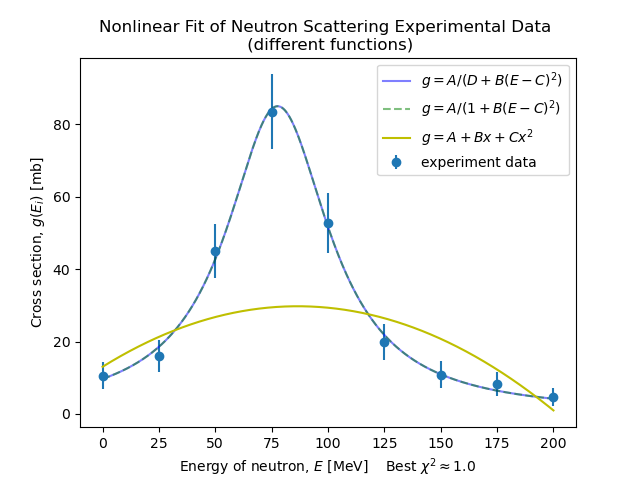
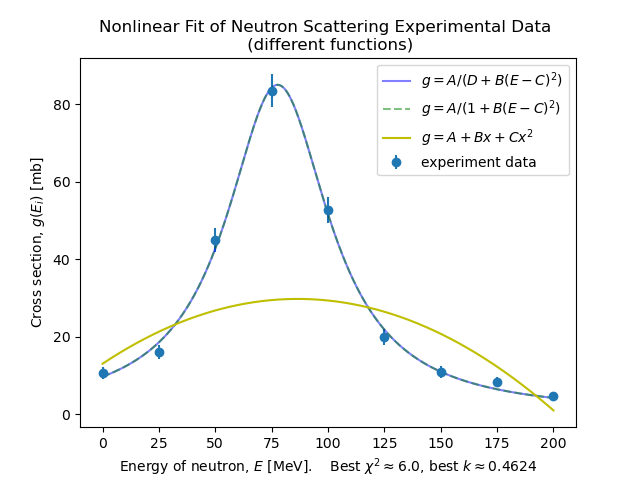
Assignment 3 optimum k used for 345 plot

diff --git a/03/03_03-04-05.py b/03/03_03-04-05.py
@@ -33,7 +33,7 @@ inputfile.close()
 # print(r)
 
 m = 0
-k = 1.13  # manually adjusted
+k = 0.4624  # manually adjusted
 for line in r:
     print(line)
     s = line.split() # split line and split into list of items(assume items separated by spaces)
@@ -95,7 +95,7 @@ plot(xvalues,yvalues_poly,"y-",label=r'$ g = A + B x + C x^2 $')
 
 title('Nonlinear Fit of Neutron Scattering Experimental Data \n (different functions)')
 ylabel( 'Cross section, '+ r'$g(E_i)$ [mb]')
-xlabel( 'Energy of neutron, $E$ [MeV]   ' + r' Best $\chi^2 \approx $' + str(round(chi2,2)))
+xlabel( 'Energy of neutron, $E$ [MeV].   ' + r' Best $\chi^2 \approx $' + str(round(chi2,2)) + r', best $k \approx 0.4624 $')
 legend(loc="upper right")
 savefig('03_03-04-05.png')
 show()

diff --git a/03/03_03-04-05 _chi_of_k.py b/03/03_03-04-05 _chi_of_k.py
@@ -73,7 +73,7 @@ print(chi2k.shape)
 
 plot(kk, chi2k, label= r'$\chi^2(k)$')
 plot(kk, np.linspace(6.0, 6.0, num=kk.shape[0]), alpha=0.5, label=r'optimum $\chi^2 \approx 6.0 $')
-plot(np.linspace(.463, .463, num=chi2k.shape[0]), chi2k, alpha=0.5, label=r'optimum $k \approx 0.463$')
+plot(np.linspace(.463, .463, num=chi2k.shape[0]), chi2k, alpha=0.5, label=r'optimum $k \approx 0.4624 $')
 title(r'$\chi^2(k)$')
 ylabel( r'$\chi^2$')
 xlabel( r'$k$')
